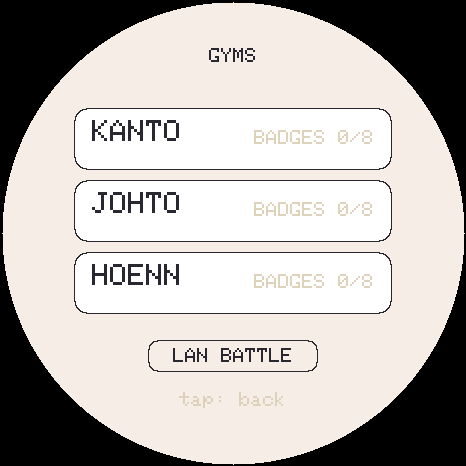
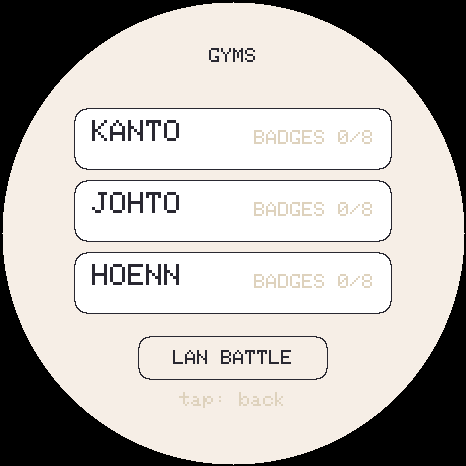
Hold every button to a minimum tap size
Third 'hard to hit' report from the board, after the battle grid's
bottom row and the party screen's BOX and CLOSE. All three were the same
mistake -- a control sized to fit its label rather than a finger -- so
this fixes the cause rather than the third instance.

UI_TAP_MIN is 44 px, the usual guidance and roughly a fingertip on a
466 px panel. The LAN button was 170x32 and is now 190x44; BOX and
CLOSE are restated in terms of the same constant so they cannot drift
back under it.

hit_test now checks every primary button against it through
uiButtonHeights(), so the fourth report happens in the test run instead
of on the hardware.

Backed the board's save up to ~/TamaPoke-backups before flashing, which
is the habit that should have existed two days ago.

Changed region(s): [[0.3004, 0.721, 0.691, 0.7811], [0.3004, 0.7811, 0.3305, 0.8112]]

diff --git a/tools/emu/tests/hit_test.cpp b/tools/emu/tests/hit_test.cpp
@@ -30,6 +30,7 @@ extern Combatant btlYou;
 void startBattle(int16_t dex, uint8_t lvl);
 int btlCellIndexAt(int16_t x, int16_t y);
 void partyButtonRects(int *boxTop, int *boxBot, int *closeTop, int *closeBot);
+void uiButtonHeights(int *out, int max, int *n);
 
 static int bad=0;
 static void ck(bool ok,const char*w){printf("%s  %s\n",ok?"PASS":"FAIL",w); if(!ok)bad++;}
@@ -111,6 +112,20 @@ int main(){
     ck(clBot < 466 && boxTop > 0, "both stay on the panel");
     printf("      BOX %d..%d, CLOSE %d..%d, gap %d px\n",
            boxTop, boxBot, clTop, clBot, clTop - boxBot);
+  }
+
+  // Three separate "hard to hit" reports came in from the board, all the same
+  // mistake: a button sized to fit its label rather than a finger. This holds
+  // every primary control to one minimum so the fourth report does not happen.
+  {
+    int h[8], n = 0;
+    uiButtonHeights(h, 8, &n);
+    int small = 0;
+    for (int i = 0; i < n; i++) if (h[i] < 44) small++;
+    printf("      button heights:");
+    for (int i = 0; i < n; i++) printf(" %d", h[i]);
+    printf(" px\n");
+    ck(small == 0, "every primary button is at least 44 px tall");
   }
 
   printf("%s\n", bad?"FAILURES":"all good");
